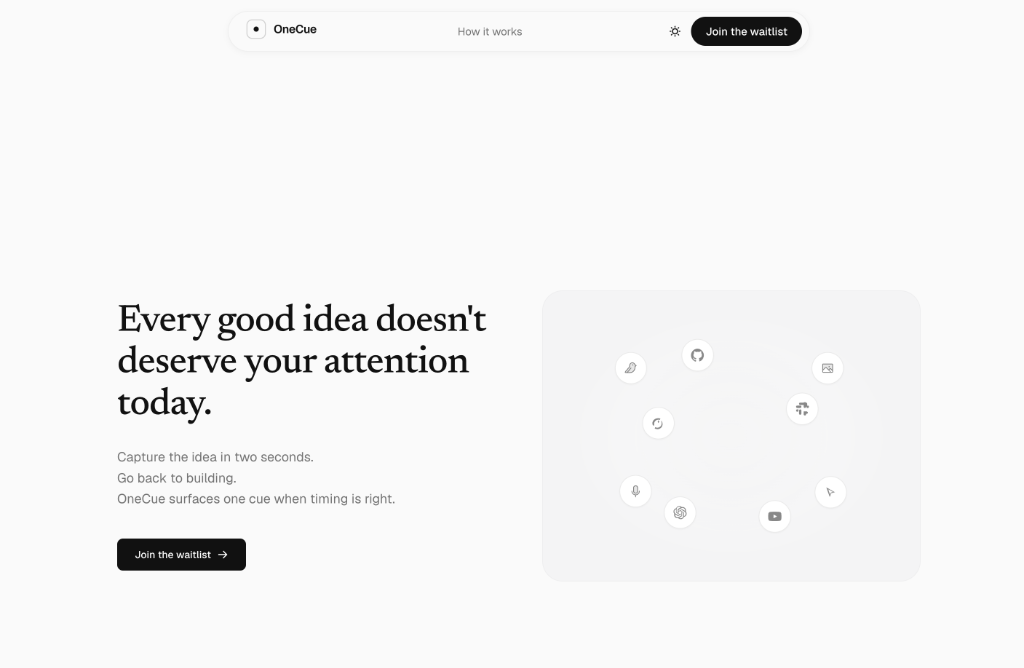
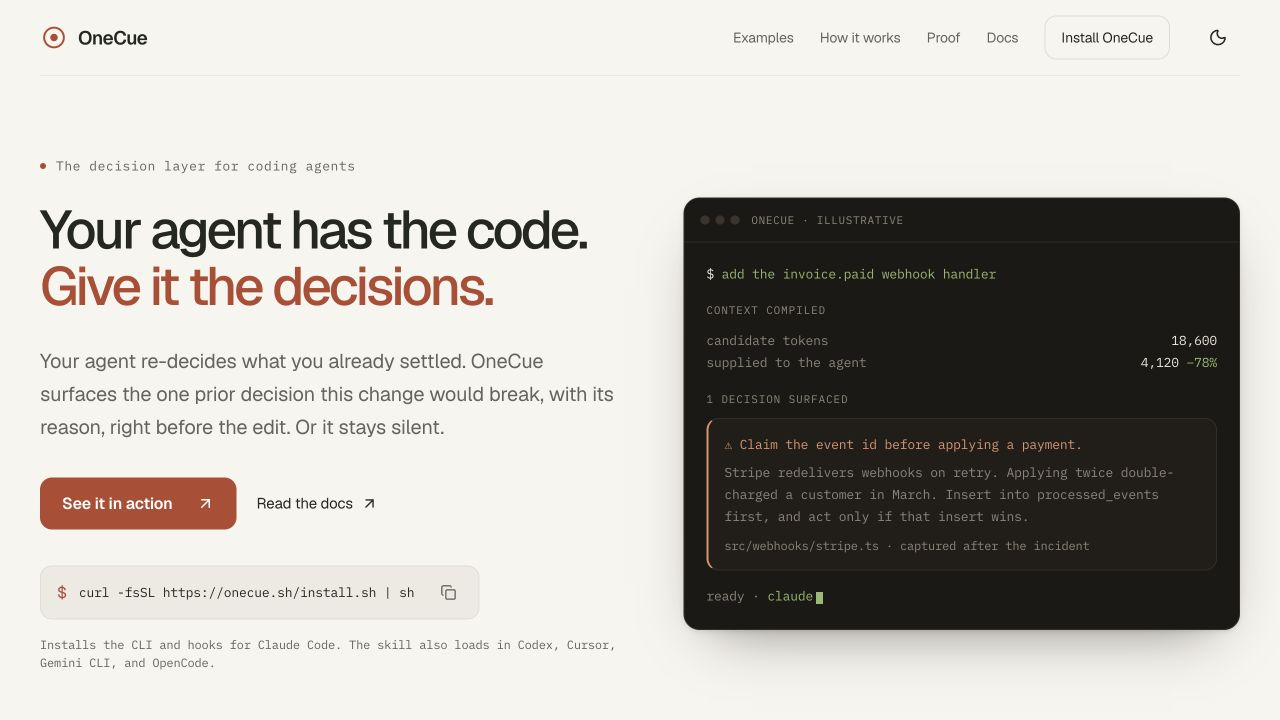
chore: refresh OneCue project

diff --git a/app/about.md/route.ts b/app/about.md/route.ts
@@ -21,7 +21,7 @@ Akash is an AI Systems Engineer and product-minded software builder with 10 year
 - Content Studio (Salesforce): multi-turn agent workspace for Marketing Cloud. Designed runtime harness primitives for threads, observational memory, skills, tools, image generation, and human-in-the-loop workflows.
 - [Evercall](https://evercall.app): AI call handler for Australian emergency plumbers. Captures missed calls, triages jobs, books follow-up, and SMSes the owner.
 - [VibeFrames](https://vibeframes.vercel.app): agentic video workspace that changes editable Remotion compositions with observable tool execution.
-- [OneCue](https://onecue.sh): capture a thought in two seconds and surface one cue when its context becomes relevant.
+- [OneCue](https://onecue.sh): a decision layer that surfaces the prior decision a coding-agent change could break, with the reason behind it.
 - [AI SDK Patterns · Learn](https://ai-sdk-patterns.dev/learn): a 16-chapter course on building agents from first principles with TypeScript and AI SDK v6.
 
 ## Evidence

diff --git a/lib/data.ts b/lib/data.ts
@@ -196,12 +196,12 @@ export const projectsData = [
   {
     title: "OneCue",
     description:
-      "A low-friction idea inbox: capture a thought in two seconds, return to the work, and let OneCue surface one cue when the timing is right.",
+      "A decision layer for coding agents. OneCue surfaces the prior decision a proposed change could break — and the reason behind it — right before the edit, then stays silent when nothing is relevant.",
     hyperlink: "https://onecue.sh",
-    tags: ["Fast capture", "Contextual recall", "AI utility"],
+    tags: ["Coding agents", "Decision memory", "Context retrieval", "CLI", "Agent skills"],
     kind: "Independent app",
     outcome:
-      "Designed to reduce the cost of remembering without turning every idea into another task.",
+      "Gives coding agents the decisions behind a codebase, not just more context.",
     cta: "Open OneCue",
     imageUrl: oncecueImg,
   },

diff --git a/lib/llms-txt.ts b/lib/llms-txt.ts
@@ -95,7 +95,7 @@ export function buildLlmsTxt() {
 - [About Markdown](${siteConfig.url}/about.md): Concise profile for agent retrieval.
 - [Evercall](https://evercall.app): When an Australian emergency plumber can't answer, we book the job.
 - [VibeFrames](https://vibeframes.vercel.app): Agentic video workspace for editable Remotion compositions.
-- [OneCue](https://onecue.sh): Fast idea capture with contextual recall.
+- [OneCue](https://onecue.sh): Decision memory that surfaces the prior decision a coding-agent change could break.
 - [AI SDK Patterns · Learn](https://ai-sdk-patterns.dev/learn): A 16-chapter course on building agents from first principles with TypeScript and AI SDK v6.
 - [Building Evercall](${siteConfig.url}/building-evercall): One line per week that actually shipped.
 - [Articles](${siteConfig.url}/articles)

diff --git a/app/profile.json/route.ts b/app/profile.json/route.ts
@@ -16,7 +16,7 @@ const profile = {
     { name: "Content Studio", context: "Salesforce", focus: "Agent runtime for Marketing Cloud", url: "https://www.salesforce.com/marketing/" },
     { name: "Evercall", focus: "AI phone agent for Australian emergency plumbers", url: "https://evercall.app" },
     { name: "VibeFrames", focus: "Agentic Remotion video workspace", url: "https://vibeframes.vercel.app" },
-    { name: "OneCue", focus: "Fast idea capture with contextual recall", url: "https://onecue.sh" },
+    { name: "OneCue", focus: "Decision memory for coding agents", url: "https://onecue.sh" },
     { name: "AI SDK Patterns · Learn", focus: "Course on building agents from first principles with TypeScript and AI SDK v6", url: "https://ai-sdk-patterns.dev/learn" },
   ],
   experience: ["Salesforce", "Amazon", "McAfee"],
